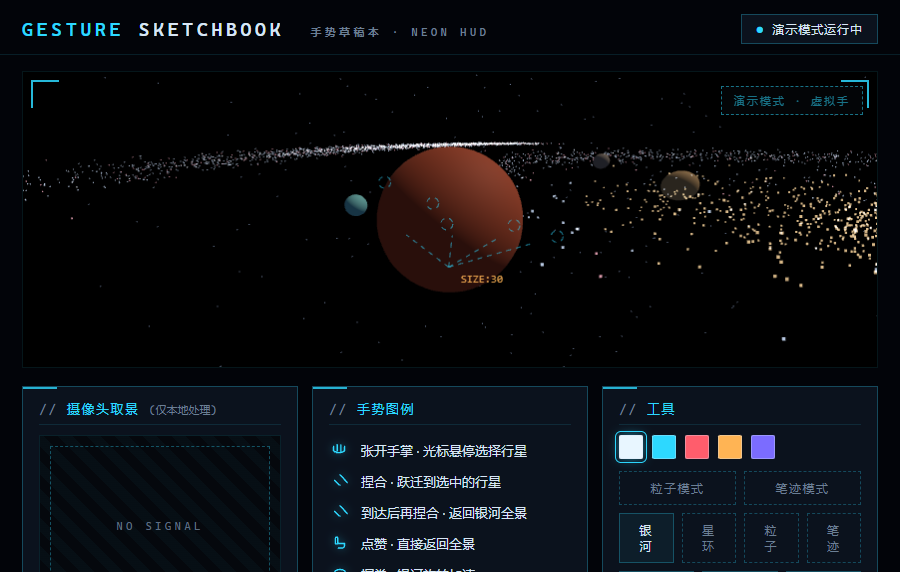
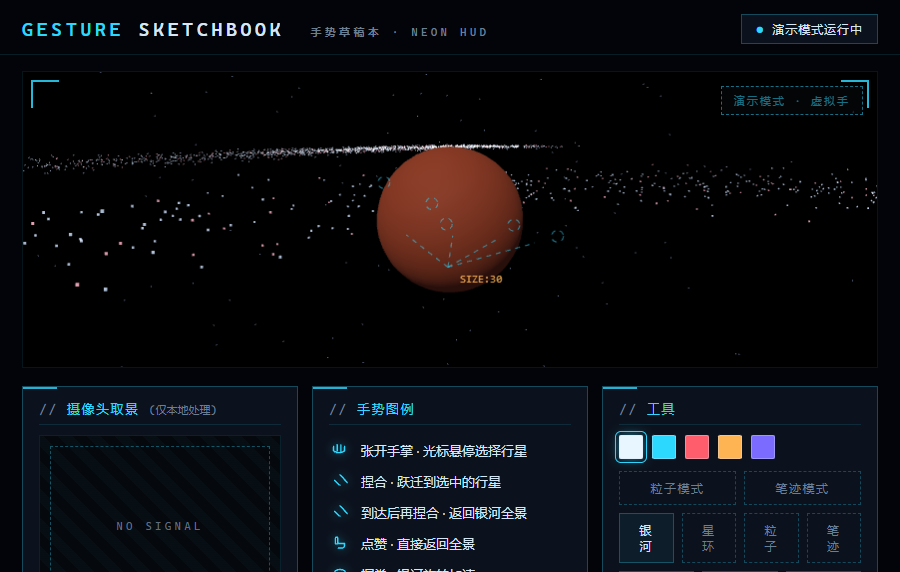
feat: 花开质感升级——3200 颗粒子加密、瓣形收紧、辉光通道、花朵页隐藏骨架读数、星尘氛围；移除独立页演示按钮（不要手势案例）

Changed region(s): [[0.0311, 0.2378, 0.9956, 0.5052], [0.6222, 0.3864, 0.6533, 0.4161], [0.1867, 0.3566, 0.2178, 0.3864]]

diff --git a/js/app.js b/js/app.js
@@ -167,6 +167,16 @@ function particleFrame(f) {
   }
   const eff = EFFECTS[g];
   if (eff && eff.onFrame && hand) eff.onFrame(hand, ps);
+
+  // 花朵页氛围：漂浮的微光星尘
+  if (window.__FLOWER_ONLY && Math.random() < 0.5 && ps.count < 3000) {
+    ps.spawn({
+      x: Math.random() * pad.w, y: Math.random() * pad.h,
+      vx: (Math.random() - 0.5) * 6, vy: -3 - Math.random() * 6,
+      life: 4 + Math.random() * 3, size: 0.7 + Math.random() * 0.8,
+      color: "#9fc7ff", gravity: 0, drag: 1,
+    });
+  }
 }
 
 // 粒子模式渲染循环：统一在这里做物理更新与绘制（无手时也保持画面活着）
@@ -180,7 +190,7 @@ function particleLoop() {
     ? { x: lastHand.palm.x, y: lastHand.palm.y, vx: lastHand.vel.x, vy: lastHand.vel.y, r: CONFIG.particles.handDragRadius, strength: CONFIG.particles.handDragStrength }
     : null;
   ps.update(dt, wind);
-  ps.render((ctx) => { if (lastHand) drawHud(ctx, lastHand); });
+  ps.render((ctx) => { if (lastHand && !window.__FLOWER_ONLY) drawHud(ctx, lastHand); });
 
   hint.classList.toggle("hidden", !!lastHand);
   if (camStatus && ++frameTick % 30 === 0) {
@@ -207,10 +217,12 @@ function drawHud(ctx, hand) {
   }
   ctx.setLineDash([]);
   const wrist = P(0), midTip = P(12);
-  ctx.font = '11px Consolas, "Cascadia Code", monospace';
-  ctx.fillStyle = "rgba(255, 180, 84, .9)";
-  // 读数标注放在手腕附近，避免压住花心等画面主体
-  ctx.fillText(`SIZE:${Math.round(hand.size * 100)}`, wrist.x + 12, wrist.y + 16);
+  if (!window.__FLOWER_ONLY) {
+    ctx.font = '11px Consolas, "Cascadia Code", monospace';
+    ctx.fillStyle = "rgba(255, 180, 84, .9)";
+    // 读数标注放在手腕附近，避免压住花心等画面主体
+    ctx.fillText(`SIZE:${Math.round(hand.size * 100)}`, wrist.x + 12, wrist.y + 16);
+  }
   ctx.restore();
 }
 
@@ -548,7 +560,8 @@ const btnClearEl = $("#btnClear");
 if (btnClearEl) btnClearEl.addEventListener("click", () => { pad.clear(); ps.killAll(0); showToast("已清空"); });
 const btnSaveEl = $("#btnSave");
 if (btnSaveEl) btnSaveEl.addEventListener("click", () => pad.exportPNG());
-$("#btnDemo").addEventListener("click", startDemo);
+const btnDemoEl = $("#btnDemo");
+if (btnDemoEl) btnDemoEl.addEventListener("click", startDemo);
 $("#btnCam").addEventListener("click", startCamera);
 const btnModeGalaxyEl = $("#btnModeGalaxy");
 if (btnModeGalaxyEl) btnModeGalaxyEl.addEventListener("click", () => setRenderMode("galaxy"));

diff --git a/js/effects.js b/js/effects.js
@@ -144,9 +144,9 @@ export const EFFECTS = {
       // 每瓣固定长度 => 剪影均匀；金芯实心盘 => 视觉锚点
       const petalLen = [];
       for (let k = 0; k < 6; k++) petalLen.push(0.94 + Math.random() * 0.16);
-      const N = 900;
+      const N = 3200;
       for (let i = 0; i < N; i++) {
-        const core = i < 150;
+        const core = i < 240;
         const petal = Math.floor(Math.random() * 6);
         let t, a, r, color, size;
         if (core) {
@@ -155,15 +155,15 @@ export const EFFECTS = {
           a = Math.random() * Math.PI * 2;
           r = 3 + Math.random() * 26;
           color = Math.random() < 0.3 ? "#fff3d6" : "#ffd27a";
-          size = 1.8 + Math.random() * 1.6;
+          size = 1.6 + Math.random() * 1.5;
         } else {
           // 泪滴形花瓣：瓣根窄、瓣中最宽、瓣尖收拢，瓣间留出明显间隙
           t = 0.14 + Math.pow(Math.random(), 0.8) * 0.86;
-          const half = 0.05 + 0.26 * Math.pow(Math.sin(Math.PI * Math.min(1, t * 1.06)), 0.8);
-          a = petal * (Math.PI / 3) + (Math.random() - 0.5) * 2 * half + (Math.random() - 0.5) * 0.015;
-          r = 30 + t * 150 * petalLen[petal] * (0.92 + Math.random() * 0.16);
+          const half = 0.05 + 0.22 * Math.pow(Math.sin(Math.PI * Math.min(1, t * 1.06)), 0.8);
+          a = petal * (Math.PI / 3) + (Math.random() - 0.5) * 2 * half + (Math.random() - 0.5) * 0.012;
+          r = 30 + t * 150 * petalLen[petal] * (0.96 + Math.random() * 0.08);
           color = petalColor(t);
-          size = 1.5 + Math.random() * 1.1;
+          size = 1.0 + Math.random() * 0.8;
         }
         const seed = { a, r, t };
         bloom.seeds.push(seed);
@@ -184,7 +184,7 @@ export const EFFECTS = {
       // 花心跟随捏合点；花朵随时间绽放并缓慢旋转
       bloom.cx += (hand.tip.x - bloom.cx) * 0.12;
       bloom.cy += (hand.tip.y - bloom.cy) * 0.12;
-      bloom.grow = Math.min(1, bloom.grow + 0.011);
+      bloom.grow = Math.min(1, bloom.grow + 0.013);
       bloom.rot += 0.0018;
       for (const p of ps.parts) {
         if (!p.seed) continue;

diff --git a/js/particles.js b/js/particles.js
@@ -181,7 +181,15 @@ export class ParticleSystem {
     ctx.clearRect(0, 0, this.w, this.h);
     ctx.drawImage(this.trail, 0, 0, this.w, this.h);
 
-    // 聚合粒子：主画布实色，花形清晰可辨
+    // 聚合粒子：主画布实色，花形清晰可辨；先叠一层低强度加色辉光，做出发光质感
+    ctx.globalCompositeOperation = "lighter";
+    for (const [p, a] of seeded) {
+      ctx.globalAlpha = Math.min(1, a * 0.32);
+      ctx.fillStyle = p.color;
+      ctx.beginPath();
+      ctx.arc(p.x, p.y, Math.max(1.2, p.size * 2.0), 0, Math.PI * 2);
+      ctx.fill();
+    }
     ctx.globalCompositeOperation = "source-over";
     for (const [p, a] of seeded) {
       ctx.globalAlpha = Math.min(1, a * 0.95);

diff --git a/js/config.js b/js/config.js
@@ -34,7 +34,7 @@ export const CONFIG = {
 
   // ---------- 粒子系统（粒子模式）----------
   particles: {
-    max: 2600,             // 同屏最大粒子数（低配电脑调低到 1200）
+    max: 4200,             // 同屏最大粒子数（低配电脑调低到 2000）
     streamPerFrame: 6,     // 绘制流：每帧从指尖喷出的粒子数
     fountainPerFrame: 9,   // 离子喷泉：每帧喷射数
     burstCount: 240,       // 能量爆发：一次爆发的粒子数

diff --git a/flower/index.html b/flower/index.html
@@ -25,7 +25,6 @@
     </section>
 
     <div class="float-ctl">
-      <button id="btnDemo" class="btn" type="button">演示模式</button>
       <button id="btnCam" class="btn" type="button">开启摄像头</button>
     </div>
   </main>
